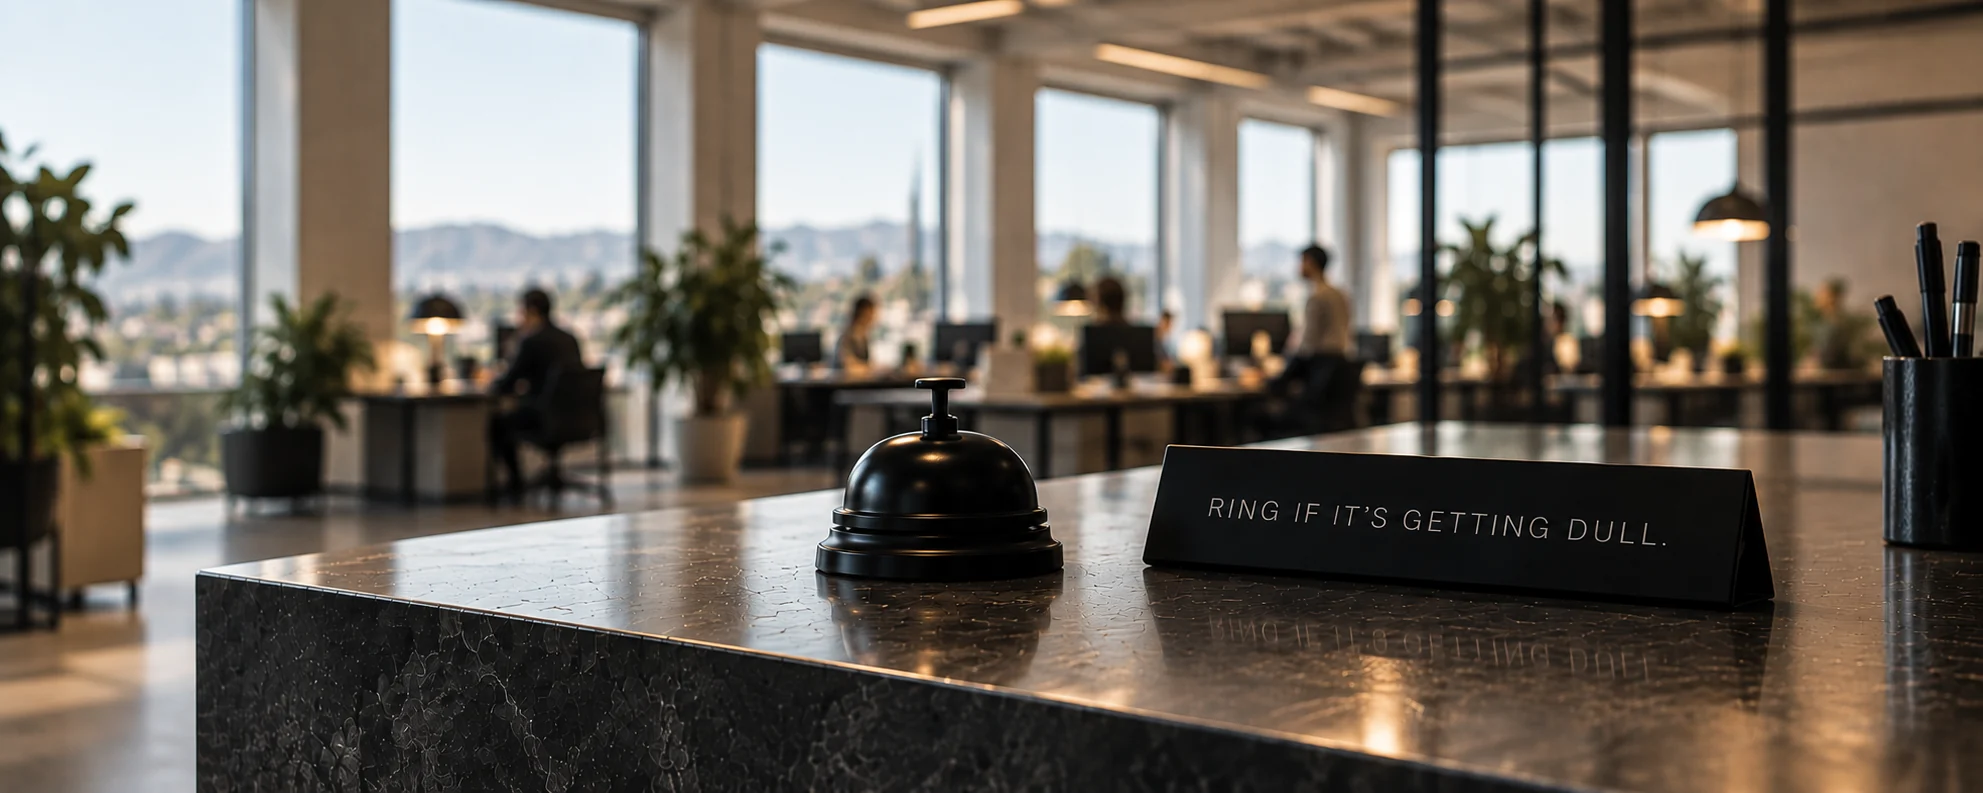
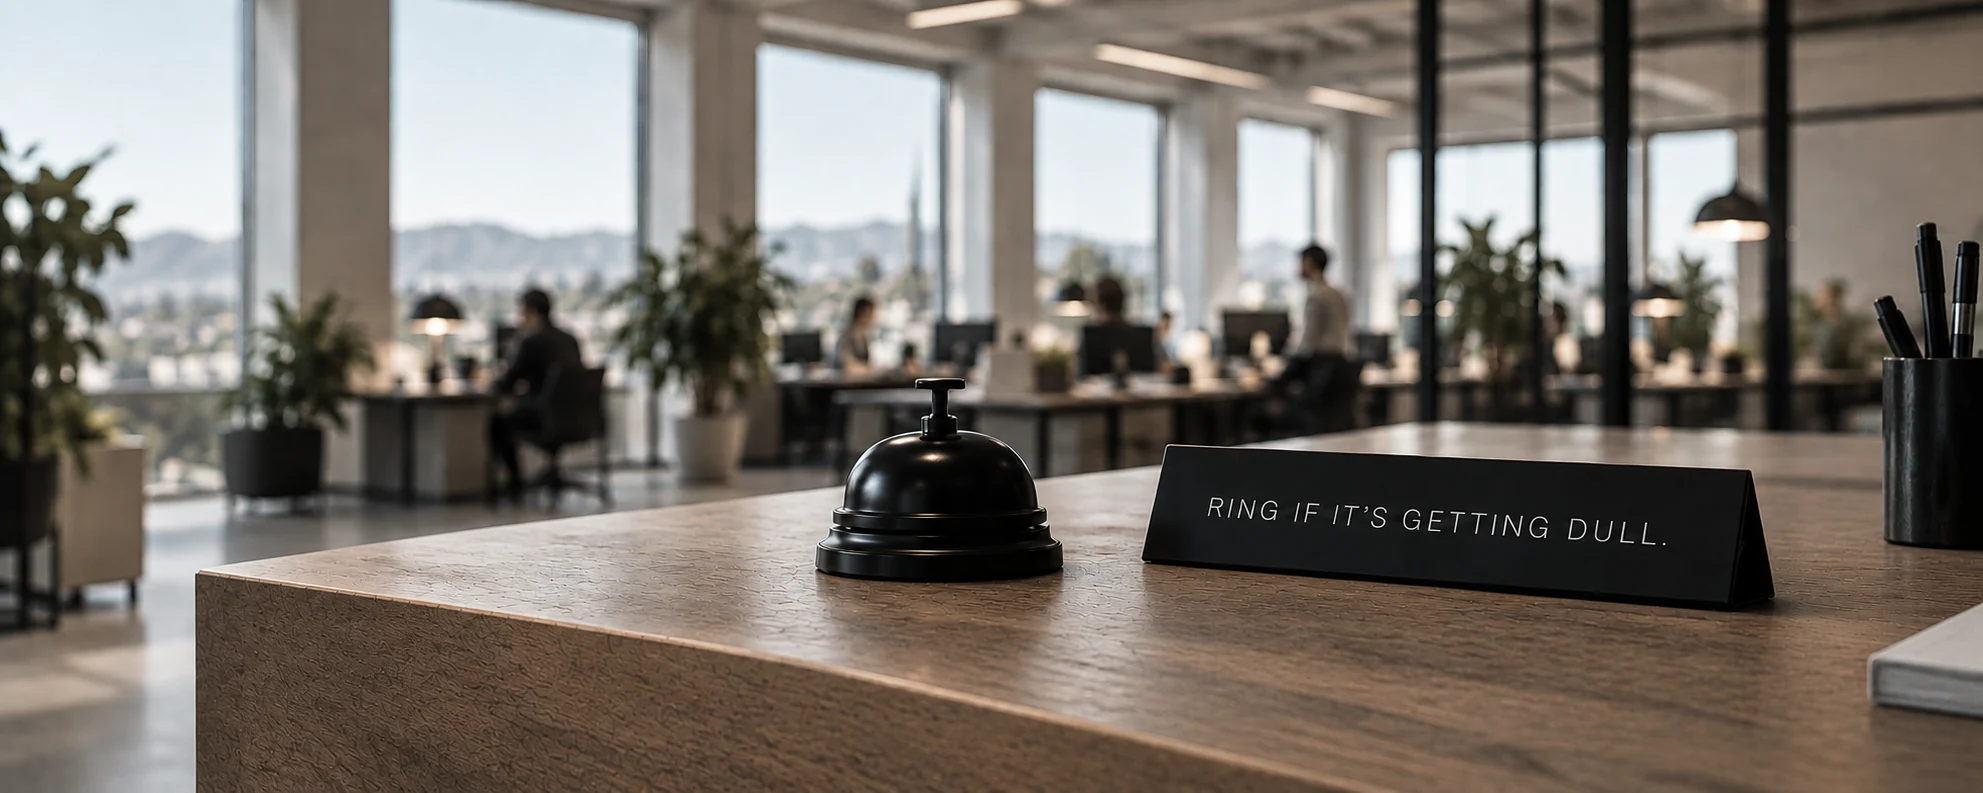
The rooms are photographed properly now
Six pictures, replaced with their finals. The reception desk with the bell
and the card that says what the bell is for. The wall that asks how come
ideas never had a balance sheet. The room with the long table and the
files. The jar that charges a dollar. The bench with the nails in it. The
stamp, inked, face up.

Nothing else. Same filenames, same references, same containers, same
proportions, same responsive behaviour - so every page that carries one
of these carries it exactly as it did before, and the page is the only
thing that knows anything changed.

Five of the six are WebP because the files they replace were, encoded at
the quality those files were given, at the dimensions supplied and with
nothing done to the pictures themselves. The sixth was a PNG and stays
one, byte for byte as delivered.

One line of markup moves with them. The contact page writes the entrance
photograph's dimensions into the tag, and the new photograph is 1670x942
where the old was 1671x941, so the tag says so. That is the whole of the
non-binary change, and without it the browser would reserve the wrong
space for a picture it is about to load.

The four Ps, Nike and the six Published Readings are untouched.

Claude-Session: https://claude.ai/code/session_01UdWrh8F3u11VnZ79BzHh2M

diff --git a/contact.html b/contact.html
@@ -70,7 +70,7 @@
 <header class="masthead" id="masthead"><div class="masthead-top"><div class="masthead-wordmark"><a href="/"><span class="kd-wordmark-glyphs">KILL DULL<span class="terminal"></span></span><span class="tm">™</span></a></div><div class="masthead-date" id="masthead-date">THE DENSE IDEA COMPANY™</div></div><div class="masthead-tagline"></div><div class="masthead-rule"></div><div class="masthead-designation">PROVIDING INDEPENDENT MARKETING JUDGMENT</div></header>
 <div class="unified-nav v5-global-nav" id="registrar" role="navigation" aria-label="Primary"><div class="unified-nav-chapters" id="registrar-desktop"><a class="reg-item" href="/">WHY</a><a class="reg-item" href="/discipline">HOW</a><a class="reg-item" href="/bench">BENCH</a><a class="reg-item" href="/readings">READINGS</a></div><div class="unified-nav-products"><a class="product-cta" href="/contact"><span class="enter-text">CONTACT</span></a></div><div class="registrar-mobile"><button class="reg-mobile-current" id="reg-mobile-btn" aria-expanded="false" aria-controls="reg-mobile-dropdown"><span id="reg-mobile-label">MENU</span><span class="reg-mobile-arrow">▾</span></button><div class="reg-mobile-dropdown" id="reg-mobile-dropdown" hidden><a class="reg-item" href="/">WHY</a><a class="reg-item" href="/discipline">HOW</a><a class="reg-item" href="/bench">BENCH</a><a class="reg-item" href="/readings">READINGS</a></div></div></div>
 <main>
-<div class="contact-entrance"><img src="/assets/kill-dull-entrance.webp" width="1671" height="941" alt="Kill Dull reception with the words “How come ideas never had a balance sheet?” on the wall."></div>
+<div class="contact-entrance"><img src="/assets/kill-dull-entrance.webp" width="1670" height="942" alt="Kill Dull reception with the words “How come ideas never had a balance sheet?” on the wall."></div>
 <section class="viewport kd-talk contact-section" id="contact" aria-label="Contact Kill Dull">
 <div class="kd-chapter-marker kd-contact-marker"><span>CONTACT</span></div>
 <span class="hero-line-wrap"><h1 class="hero-line js-fit">PUT SOMETHING ON THE BENCH.</h1></span>
